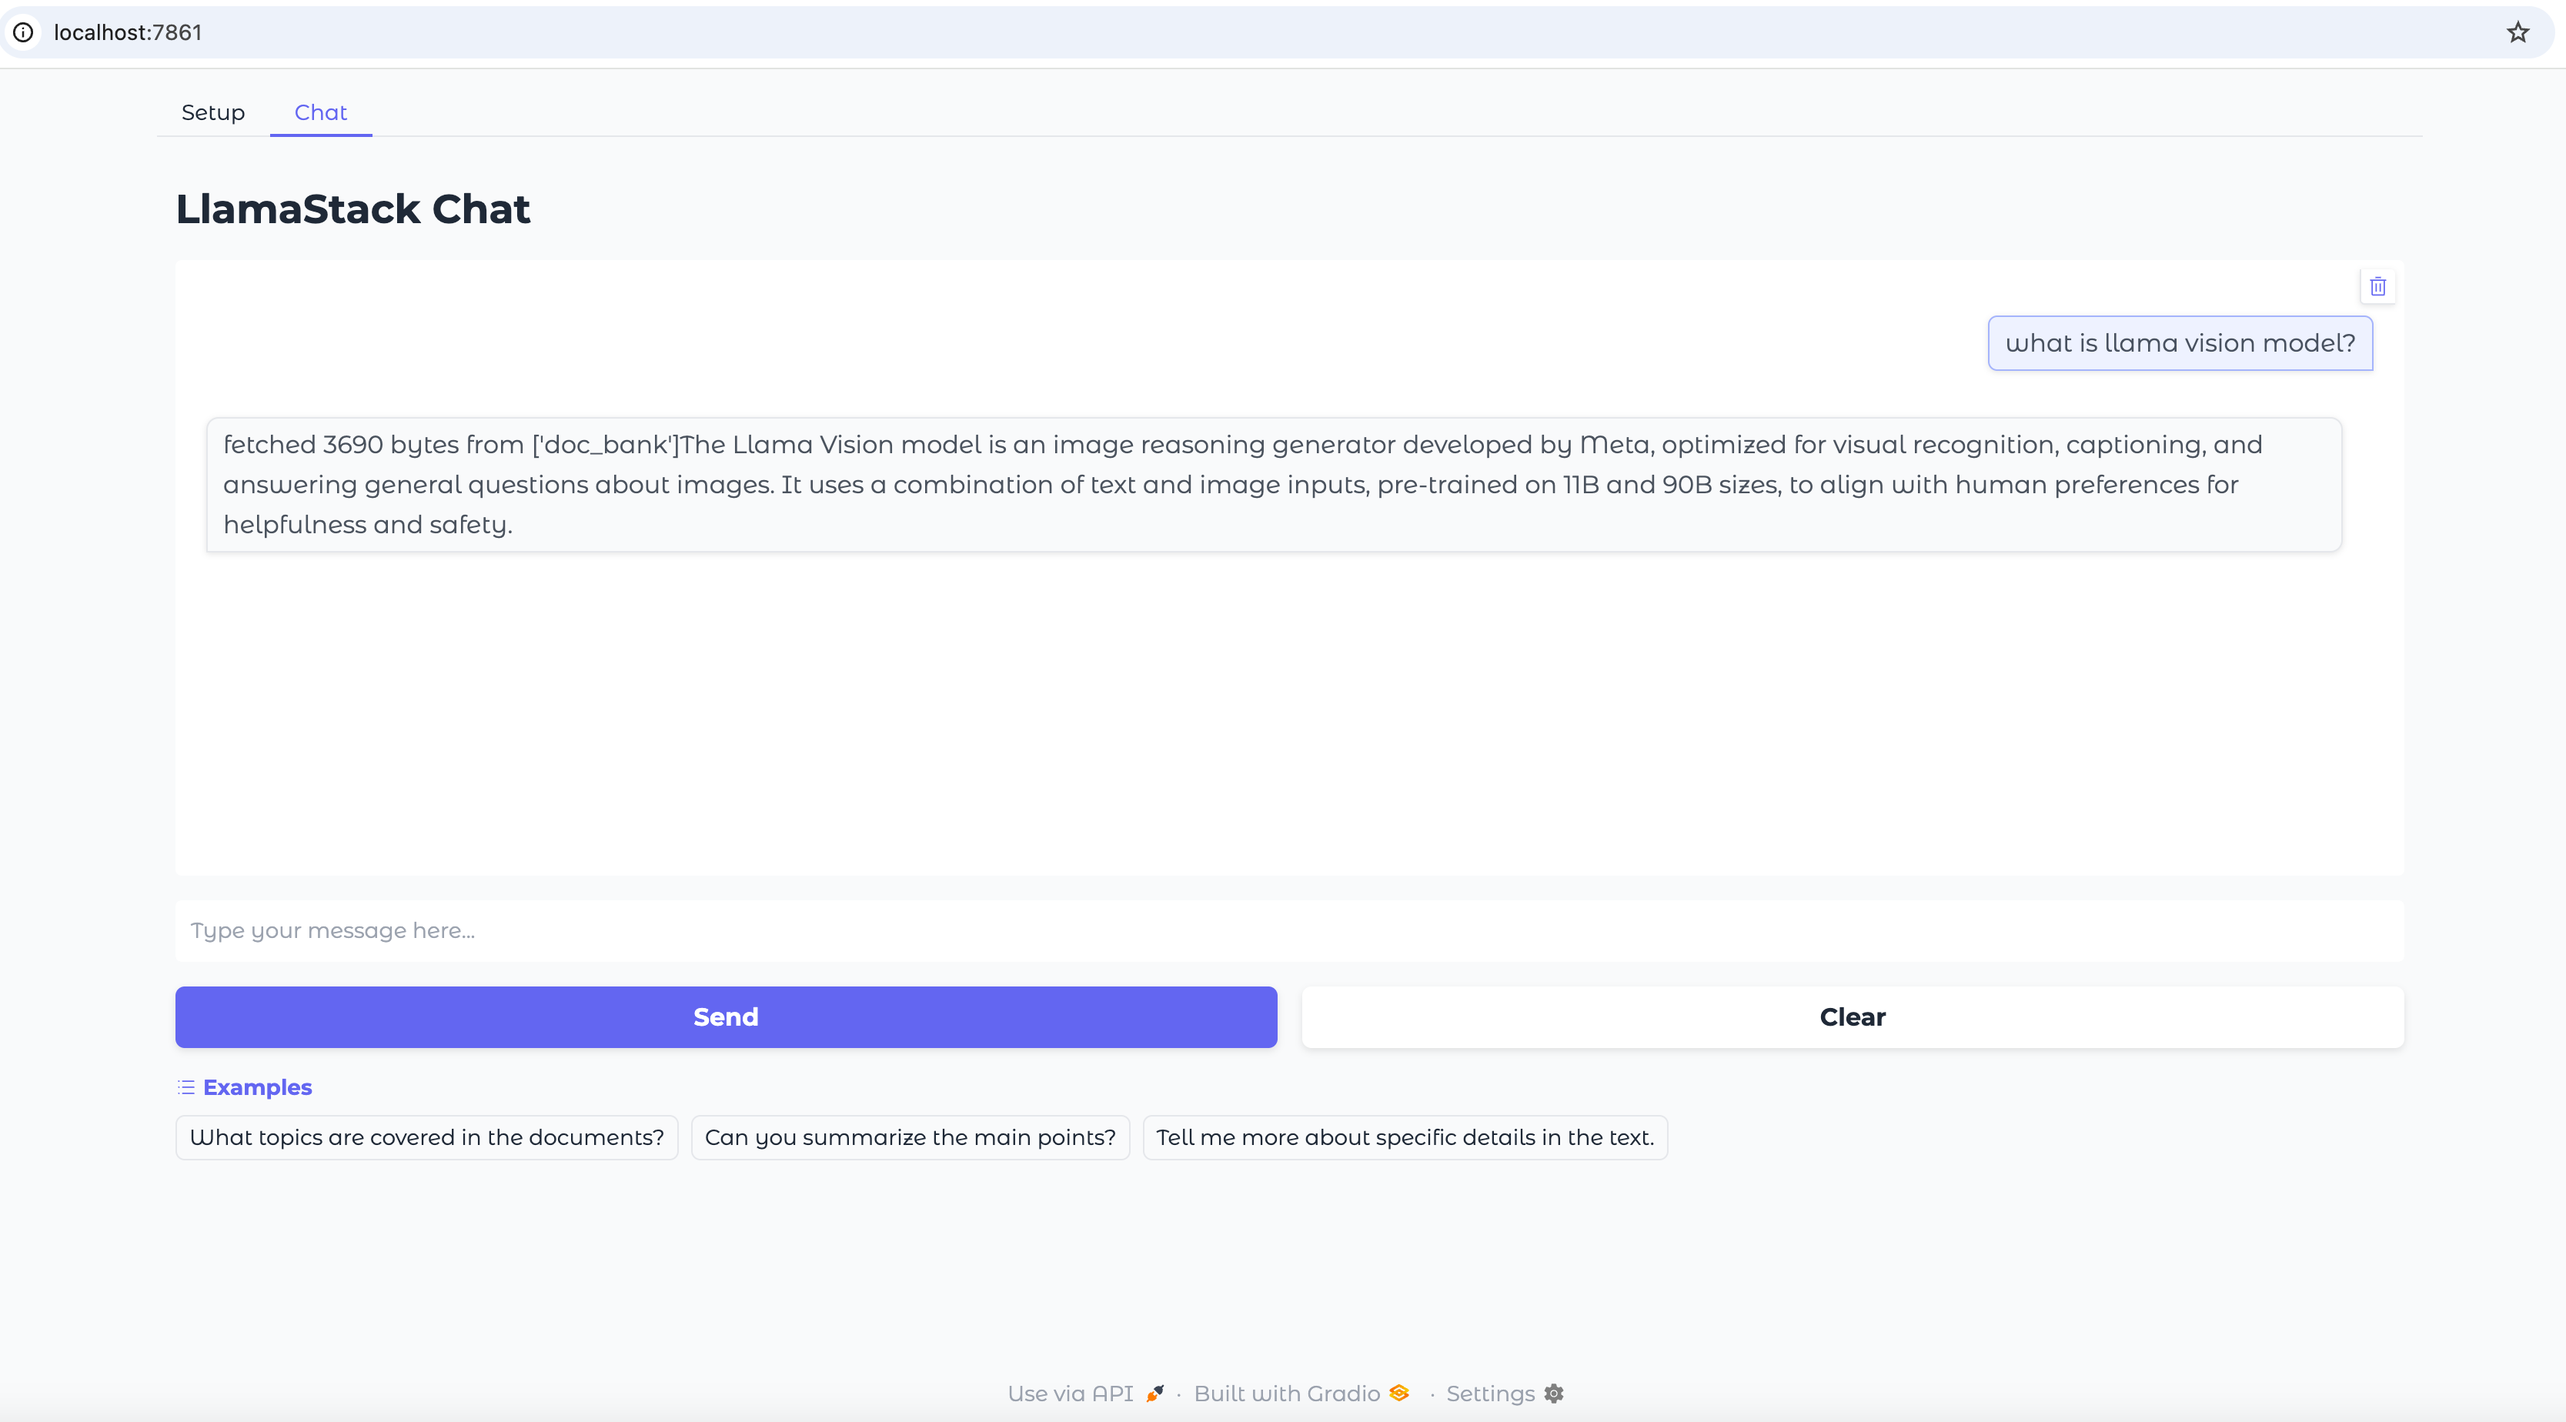
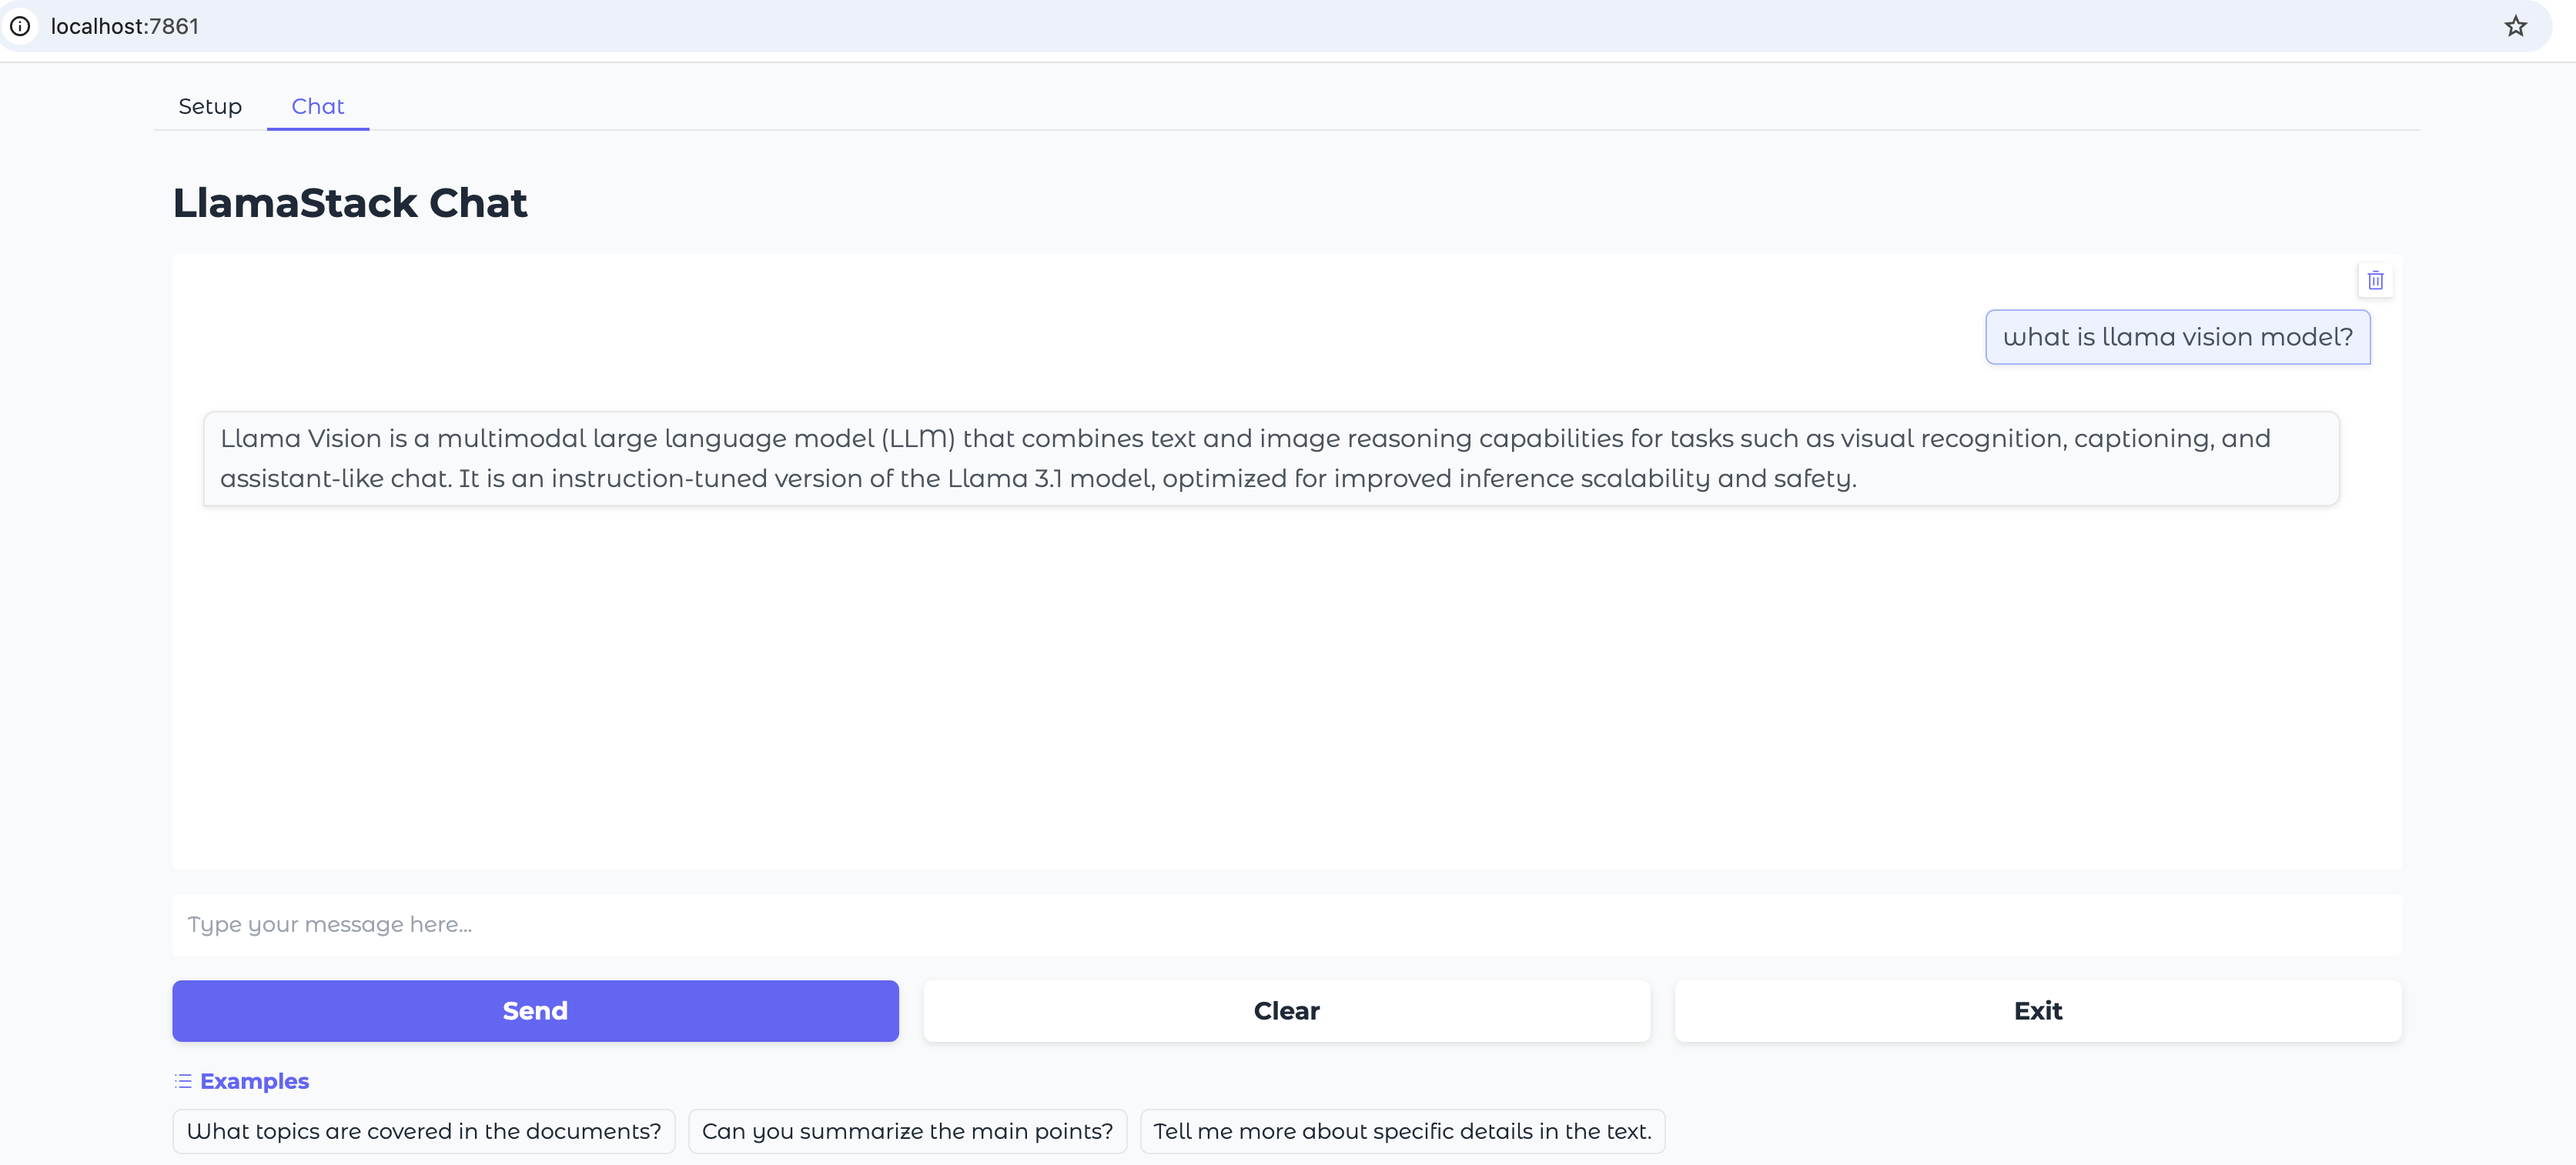
add exit button

diff --git a/examples/DocQA/app.py b/examples/DocQA/app.py
@@ -78,7 +78,7 @@ class LlamaChatInterface:
         """Initialize the entire system including vector db and agent."""
         # path_to_yaml = os.path.abspath(os.path.join(os.path.dirname(__file__), "llama_stack_run.yaml"))
         self.client = LlamaStackAsLibraryClient(provider_name)
-        print(type(self.client.async_client.config), self.client.async_client.config)
+        #print(type(self.client.async_client.config), self.client.async_client.config)
 
         # Disable scoring and eval by modifying the config
         self.client.async_client.config.apis = [
@@ -100,9 +100,9 @@ class LlamaChatInterface:
             if provider.provider_id == "rag-runtime":
                 tool_groups.append(provider)
         self.client.async_client.config.tool_groups = tool_groups
-        print(
-            111, type(self.client.async_client.config), self.client.async_client.config
-        )
+        # print(
+        #     111, type(self.client.async_client.config), self.client.async_client.config
+        # )
 
         self.client.initialize()
         self.docs_dir = DOCS_DIR
@@ -227,6 +227,7 @@ def create_gradio_interface(
         with gr.Row():
             submit = gr.Button("Send", variant="primary")
             clear = gr.Button("Clear")
+            exit_button = gr.Button("Exit")
 
         gr.Examples(
             examples=[
@@ -261,7 +262,7 @@ def create_gradio_interface(
         )
 
         clear.click(clear_chat, outputs=[chatbot, msg], queue=False)
-
+        exit_button.click(fn=lambda: os._exit(0), queue=False)
         msg.submit(lambda: None, None, None, api_name=False)
 
     # Combine both interfaces
@@ -310,6 +311,10 @@ def create_gradio_interface(
                         global DOCS_DIR
                         DOCS_DIR = folder_path
                         MODEL_NAME = model_name
+                        if not os.path.exists(folder_path):
+                            raise gr.exceptions.Error(
+                                f"Folder {folder_path} does not exist. Please check the path and try again."
+                            )
                         if provider_name == "ollama":
                             ollama_name_dict = {
                                 "meta-llama/Llama-3.2-1B-Instruct": "llama3.2:1b-instruct-fp16",

diff --git a/examples/DocQA/README.md b/examples/DocQA/README.md
@@ -37,7 +37,7 @@ Register an account in [TogetherAI](https://www.together.ai/) or [FireworksAI](h
 
 ![Chat](./data/assets/MacQA_chat.png)
 
-6. Use `Activity Monitor` to quit the `MacQA.app`. Please do not run multiple `MacQA.app` processes at the same time, as it will cause port conflict.
+6. Click `exit` button to quit the `MacQA.app`. Please do not run multiple `MacQA.app` processes at the same time, as it will cause port conflict.
 
 ### How to build the MacQA app:
 
